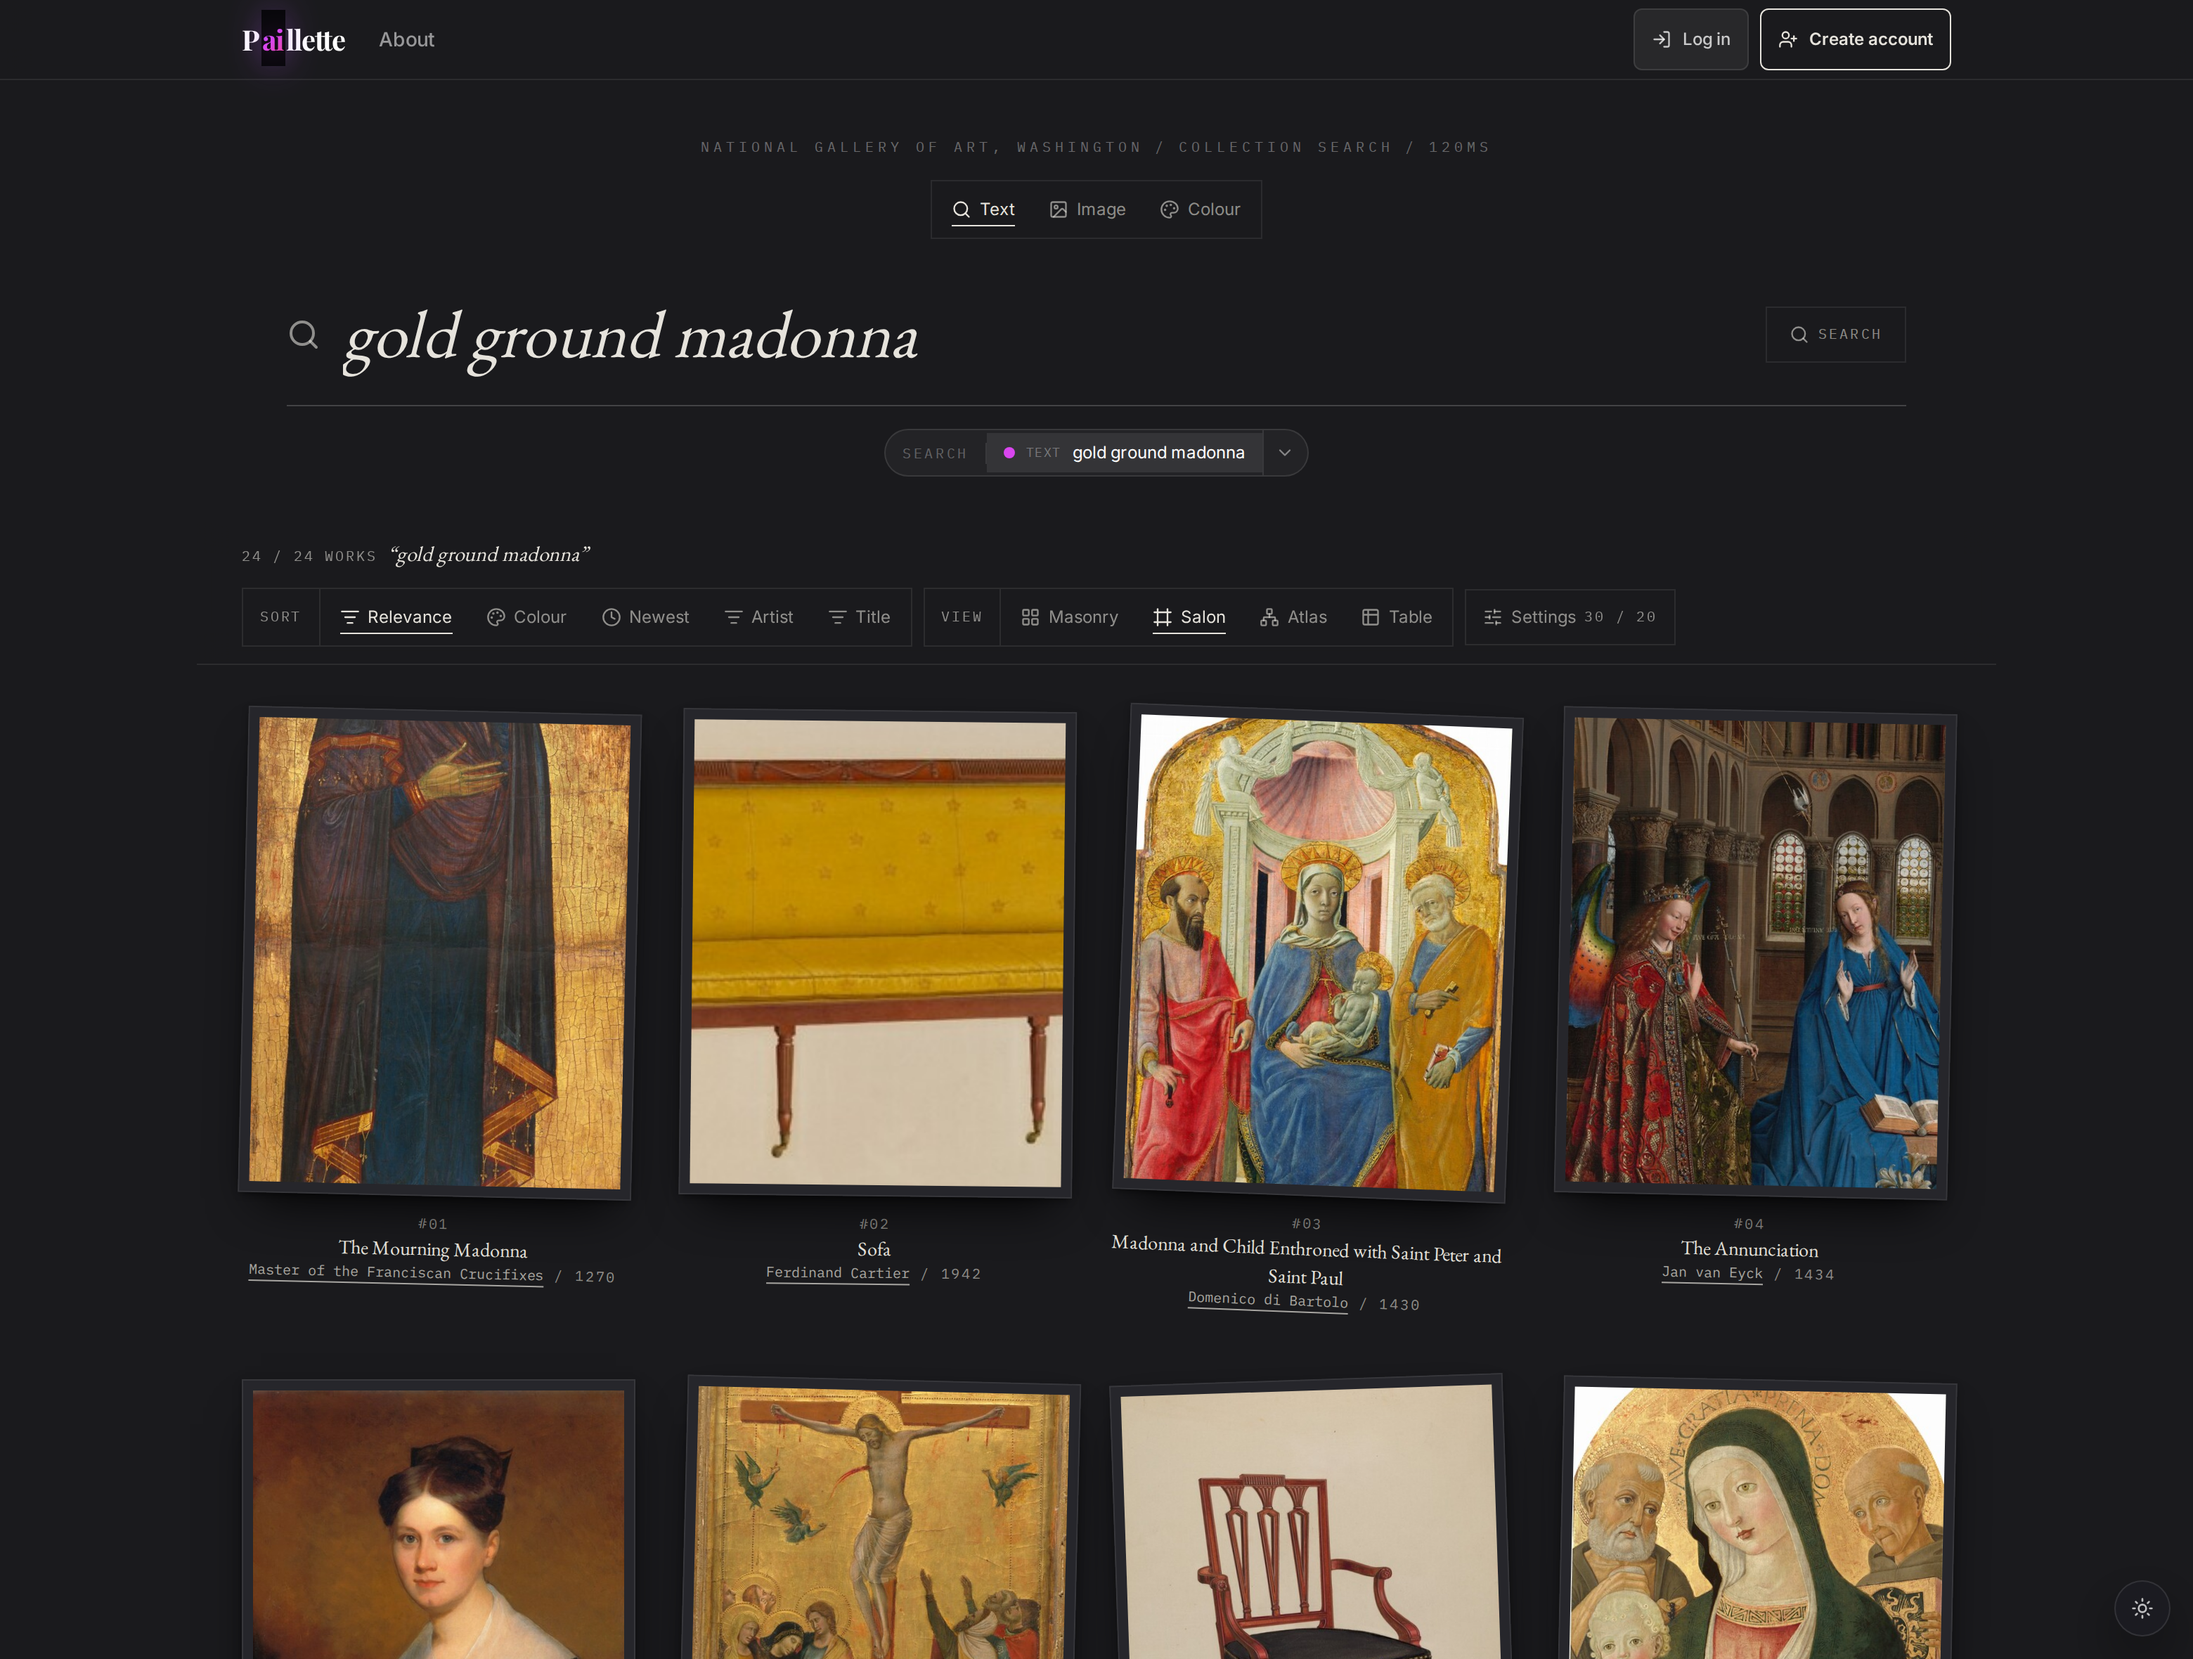
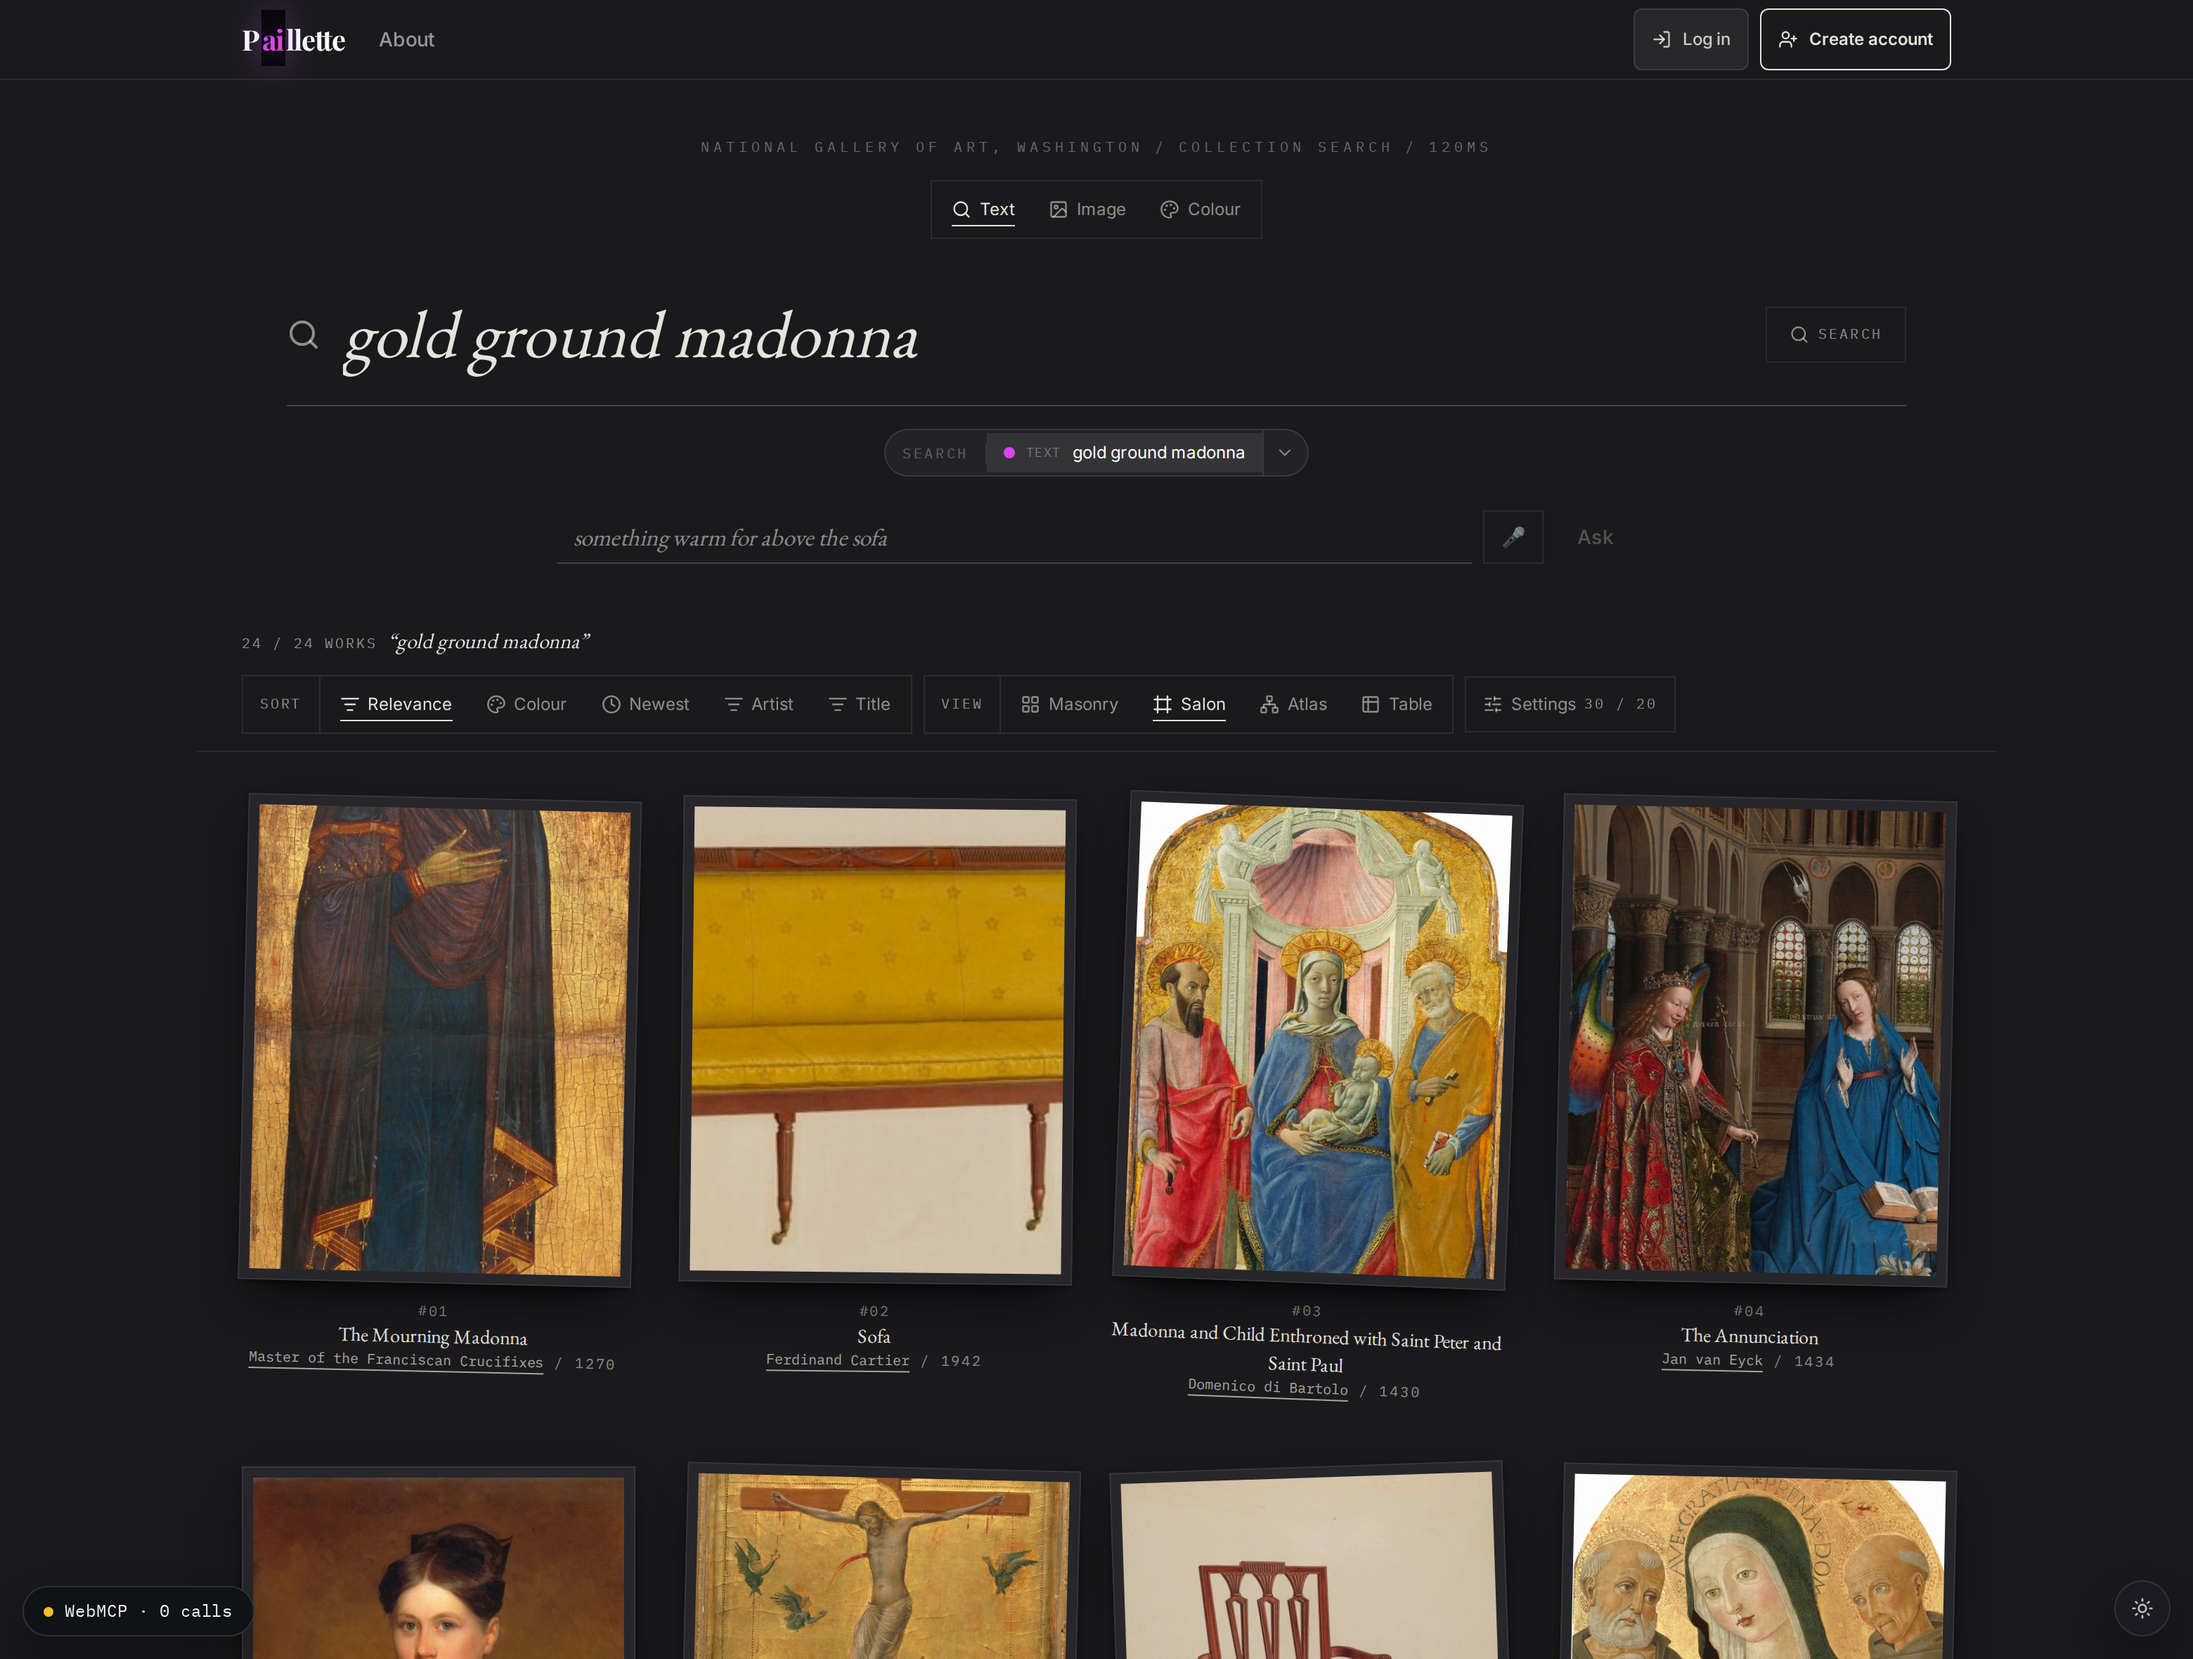
feat(search): seat the utterance bar on the table
The bar is the most important control on the page and was the last thing
still wearing the old palette: a rounded dark box, a near-black field and a
`primary-500` focus ring. A purple ring on the human's own input is the
palette contradicting itself, since on this ground a saturated colour has
exactly one meaning and it is not "focused".

It is now one graphite rule under the words, in the same serif as the search
field above it, so an utterance looks the same wherever it is typed.

`agent-prompt.tsx` belongs to the voice lane, so none of this is done there.
The route passes an `lt-agent-bar` class and `tailwind.css` styles against
it, which leaves the bar unchanged anywhere else it is used.

The styling had been going unverified: the bar hides itself unless the page
registered its tools, and headless Chromium has no `document.modelContext`,
so it was absent from every screenshot. The capture now stubs the presence
of a model context — enough for the bar to render and be looked at. It does
not make the agent work, and nothing in those shots should be read as
evidence that it does.

diff --git a/apps/web/app/tailwind.css b/apps/web/app/tailwind.css
@@ -287,6 +287,61 @@ html[data-theme='light'] .themeable-surface.lt-ground {
 }
 
 /*
+ * The utterance bar, seated on the table.
+ *
+ * `agent-prompt.tsx` is the voice lane's file and hard-codes a rounded dark
+ * box, a near-black field and a `primary-500` focus ring. On this ground a
+ * saturated colour has exactly one meaning — the agent — so a purple focus
+ * ring on the human's own input is the palette contradicting itself.
+ *
+ * Restated from here rather than by editing that component, so the bar is
+ * unchanged everywhere else. `!important` because the rules being overridden
+ * are Tailwind utilities, which sit in a later layer than this one.
+ */
+.lt-agent-bar {
+  border: 0 !important;
+  border-radius: 0 !important;
+  background: transparent !important;
+  padding: 0 !important;
+}
+
+/* One rule under the words, like the search field above it. The bar is where
+ * the human types, so it is graphite, not the agent's ink. */
+.lt-agent-bar input {
+  border: 0 !important;
+  border-bottom: 1px solid var(--lt-rule-strong) !important;
+  border-radius: 0 !important;
+  background: transparent !important;
+  color: var(--ink-human) !important;
+  font-family: 'EB Garamond', Georgia, serif;
+  font-size: 1.0625rem;
+}
+
+.lt-agent-bar input::placeholder {
+  color: var(--ink-human-faint) !important;
+  font-style: italic;
+}
+
+.lt-agent-bar input:focus {
+  border-bottom-color: var(--ink-human) !important;
+  outline: none;
+}
+
+/* The buttons beside it — mic, send — go to hairlines like every other
+ * control on the table. */
+.lt-agent-bar button {
+  border-radius: 0 !important;
+  border-color: var(--lt-rule) !important;
+  background: transparent !important;
+  color: var(--ink-human-soft) !important;
+}
+
+.lt-agent-bar button:hover:not(:disabled) {
+  border-color: var(--lt-rule-strong) !important;
+  color: var(--ink-human) !important;
+}
+
+/*
  * A rail of segmented controls — sort, view, search mode.
  *
  * Chrome that exists to be available rather than to be looked at: a hairline

diff --git a/apps/web/app/routes/galleries.$galleryId.search.tsx b/apps/web/app/routes/galleries.$galleryId.search.tsx
@@ -2816,7 +2816,13 @@ export default function SearchPage() {
             tools an external WebMCP host would, so the refinement loop —
             "something calm", then "warmer" — is visible without ChatGPT. */}
         <AgentPrompt
-          className="mx-auto mt-6 max-w-3xl"
+          /* `lt-agent-bar` is the hook the light table styles against.
+             `agent-prompt.tsx` belongs to the voice lane and hard-codes a dark
+             rounded box with a purple focus ring, which is a third colour on a
+             ground whose whole argument is that there are two. Passing a class
+             and restating it from `tailwind.css` keeps the seam out of their
+             file — the bar is unchanged anywhere else it is used. */
+          className="lt-agent-bar mx-auto mt-6 max-w-3xl"
           /* The example alone. "Ask the agent —" was narrating the mechanism
              in the one place the human is about to type into anyway; showing
              the shape of an utterance is more use than naming the feature. */
